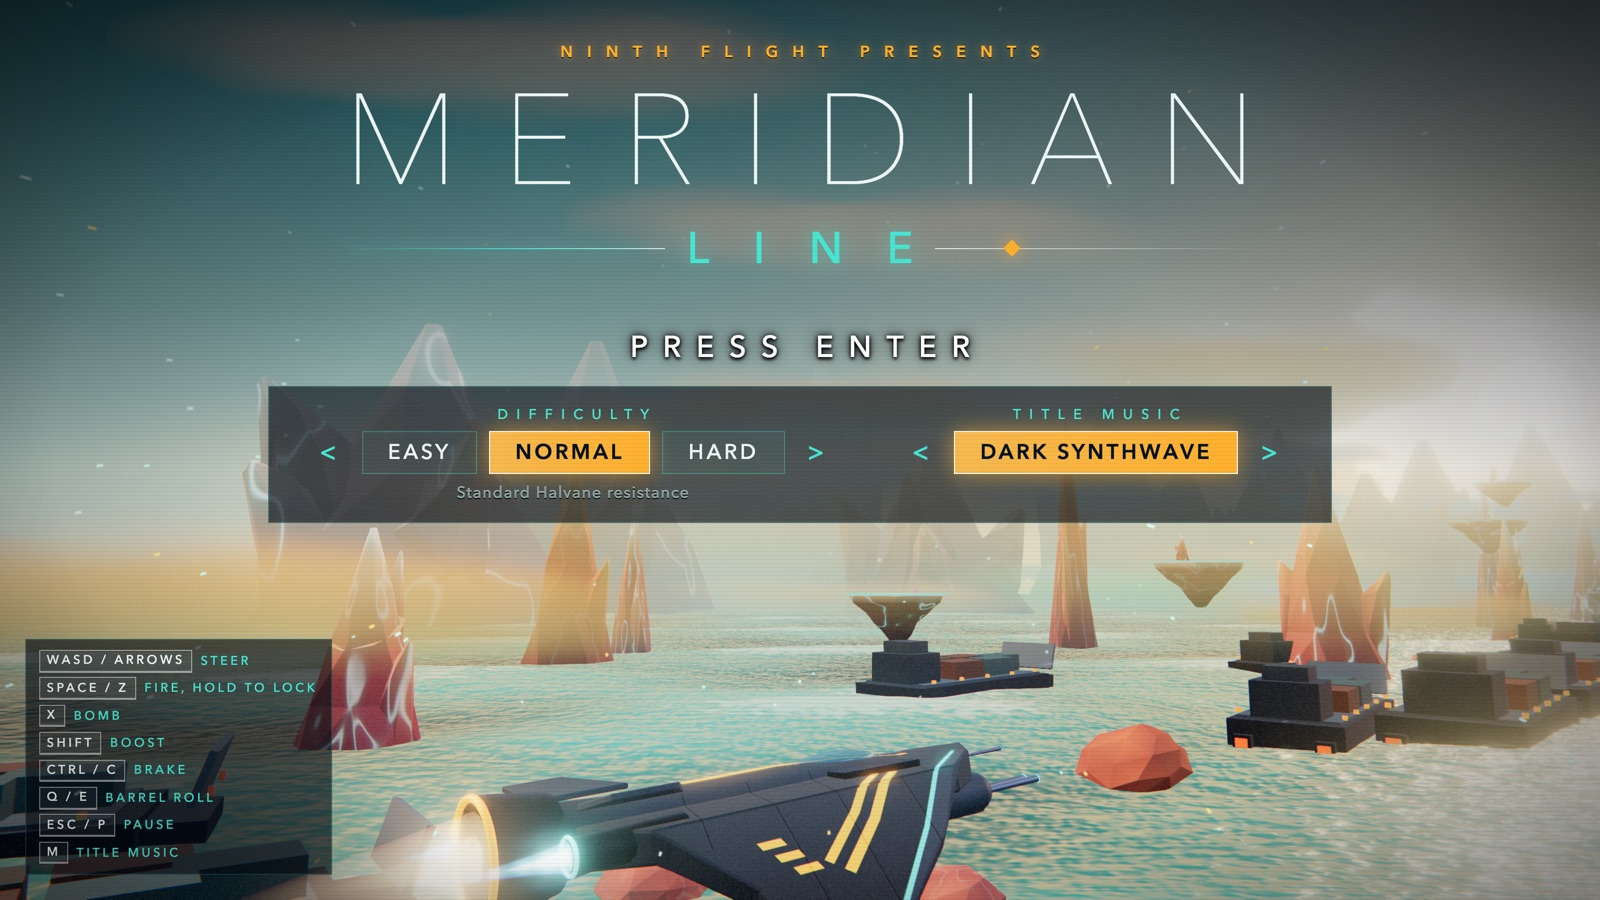
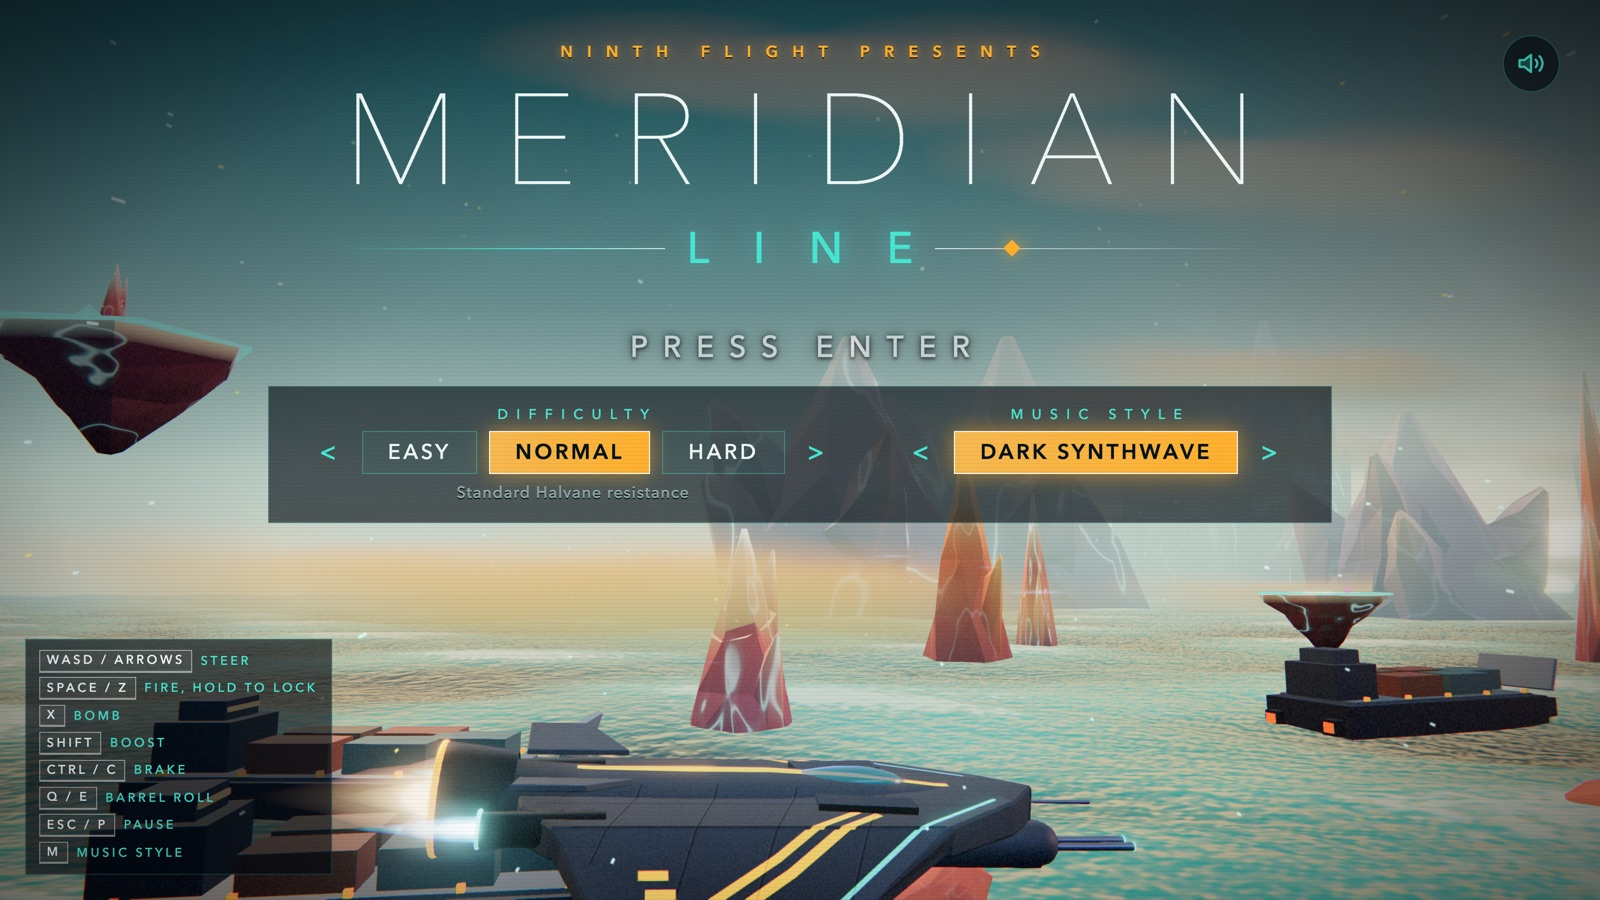
v2: polish from audits (wording, docs, screenshots, version 2.0.0)
Escort trouble wording no longer uses "on my tail" phrasing, level scripts say the
transponder wording at the source (ui.js rewrite removed), vestigial ring sound alias
removed, screen wording (A NINTH FLIGHT SORTIE, SORTIE CLEARED), process wording removed
from lab pages and comments, architecture and README updated for music styles, sound
lab and the sound gate, refreshed screenshots and link preview, version 2.0.0.

diff --git a/src/allies/allies.js b/src/allies/allies.js
@@ -1,6 +1,6 @@
 // Wingmen AI (vex, ferro, pip). Formation flying relative to the rail, target shooting with weak lasers,
 // loops and barrel rolls, damage and retreat, and the transponder-link mechanic (a contact jams an escort's link, clear it in
-// time). The trouble type rotates: tail contact, pinned at a gate, engine disabled, cut off by a barrier.
+// time). The trouble type rotates: pursuer astern, pinned at a gate, engine disabled, cut off by a barrier.
 //
 // API: allies.chaseMe(name, enemy, {time=18, kind}) starts the transponder link timer (kind: 'tail'|'gate'|'engine'|'barrier',
 // rotated automatically when omitted); allies.say(name, text) posts a comm line;
@@ -23,23 +23,23 @@ const SPEAKER = { vex: 'VEX', ferro: 'FERRO', pip: 'PIP' };
 // drone that reports status codes as a readout (lowercase status codes). Placeholders: {hp} hull percent of the
 // speaker, {shield} player shield percent, {kills} kills this level.
 const TROUBLE = ['tail', 'gate', 'engine', 'barrier'];
-const TROUBLE_WARN = { tail: 'LINK JAMMED, TAIL CONTACT', gate: 'LINK BLOCKED AT GATE', engine: 'DRIVE FAULT, LINK FADING', barrier: 'LINK CUT BY BARRIER' };
+const TROUBLE_WARN = { tail: 'LINK JAMMED, PURSUER ASTERN', gate: 'LINK BLOCKED AT GATE', engine: 'DRIVE FAULT, LINK FADING', barrier: 'LINK CUT BY BARRIER' };
 const LINES = {
   chase: {
     vex: {
-      tail: ['Lead, contact on my six, bearing 180. Transponder is jammed.', 'Wing two, tail contact. Link degrading, unable to shake.'],
+      tail: ['Lead, pursuer astern, bearing 180. Transponder is jammed.', 'Wing two, pursuer astern. Link degrading, unable to shake it.'],
       gate: ['Wing two, wedged against the gate frame. Link blocked, unable to manoeuvre.'],
       engine: ['Wing two, port drive fault. Thrust at forty percent, link fading.'],
       barrier: ['Wing two, the barrier has cut my link. No route forward.'],
     },
     ferro: {
-      tail: ['I have acquired a follower. He is very committed.', 'Something is on my tail. It has not introduced itself.'],
+      tail: ['I have acquired a follower. He is very committed.', 'Something is astern of me. It has not introduced itself.'],
       gate: ['I am wedged against a gate and my link is not enjoying it.'],
       engine: ['The engine has left the conversation. The link is following it.'],
       barrier: ['Barrier ahead, company behind, link cut. Geometrically unfortunate.'],
     },
     pip: {
-      tail: ['contact 4 on tail, link jammed, evading', 'hostile lock, link noise rising'],
+      tail: ['contact 4 astern, link jammed, evading', 'hostile lock, link noise rising'],
       gate: ['path blocked, gate 3 closed, link blocked'],
       engine: ['engine fault E2, thrust 40 percent, link fading'],
       barrier: ['barrier ahead, link cut, hull {hp} percent'],
@@ -47,7 +47,7 @@ const LINES = {
   },
   rescued: {
     vex: ['Contact eliminated. Wing two resuming station.', 'Threat cleared. Formation restored.'],
-    ferro: ['Clear. That was a lot of attention for one afternoon.', 'Tail is gone. Position restored.'],
+    ferro: ['Clear. That was a lot of attention for one afternoon.', 'Pursuer is gone. Position restored.'],
     pip: ['contact cleared. hull {hp} percent. formation restored', 'threat neutral. resuming station'],
   },
   hit: {
@@ -269,7 +269,7 @@ class Wingman {
           this.tgt.set(clamp(_q.x * 0.4 + wx * 0.5, -12, 12), clamp(_q.y + wy * 0.5 + 1, -6, 9), -19 + Math.sin(this.t * 1.7) * 2);
           k = 6; damp = 5;
         } else {
-          // tail contact: weave just ahead of the pursuer, inside the play area
+          // pursuer astern: weave just ahead of the pursuer, inside the play area
           this.tgt.set(clamp(_q.x * 0.6 + wx, -17, 17), clamp(_q.y + wy + 1, -6, 9), clamp(_q.z - 9, -46, -14));
           k = 9; damp = 6;
         }
@@ -483,7 +483,7 @@ export const allies = {
   },
 
   /** an escort is in trouble because of `enemy`; clear it within `time` seconds or the escort goes down. The trouble kind
-   *  rotates (tail contact, pinned at a gate, engine disabled, cut off by a barrier) unless opts.kind is given. */
+   *  rotates (pursuer astern, pinned at a gate, engine disabled, cut off by a barrier) unless opts.kind is given. */
   chaseMe(name, enemy, opts = {}) {
     if (!this.enabled) return;
     const n = String(name).toLowerCase();

diff --git a/src/audio/title/lab.js b/src/audio/title/lab.js
@@ -30,14 +30,14 @@ function info(track) {
     const meta = m.meta, beats = meta.beatsPerBar ?? 4;
     const barDur = meta.barDur ?? (beats * 60) / meta.bpm;
     const loop = meta.loop !== false;
-    return { delivered: true, name: meta.name || track, desc: meta.description || '', bpm: meta.bpm, bars: meta.bars, loop, secs: Math.round(meta.bars * barDur) };
+    return { available: true, name: meta.name || track, desc: meta.description || '', bpm: meta.bpm, bars: meta.bars, loop, secs: Math.round(meta.bars * barDur) };
   }
-  if (track === 'title') return { delivered: false, name: 'missing title', desc: 'This style has no title track yet, the game uses the default style title.', bpm: '?', bars: '?', loop: true, secs: 0, missing: true };
+  if (track === 'title') return { available: false, name: 'missing title', desc: 'This style has no title track, the game uses the default style title.', bpm: '?', bars: '?', loop: true, secs: 0, missing: true };
   const def = SONG_DEFS[track];
-  if (!def) return { delivered: false, name: 'nothing', desc: 'No track and no legacy song.', bpm: '?', bars: '?', loop: true, secs: 0, missing: true };
+  if (!def) return { available: false, name: 'nothing', desc: 'No track and no legacy song.', bpm: '?', bars: '?', loop: true, secs: 0, missing: true };
   let bars = 0, loop = true;
   try { const s = compileSong(track); bars = s.sections.reduce((n, x) => n + x.bars, 0); loop = s.loop !== false; } catch (e) { /* ignore */ }
-  return { delivered: false, name: `legacy: ${def.name || track}`, desc: 'Falls back to the old sequencer song.', bpm: def.bpm, bars, loop, secs: Math.round((bars * 240) / def.bpm) };
+  return { available: false, name: `legacy: ${def.name || track}`, desc: 'Falls back to the old sequencer song.', bpm: def.bpm, bars, loop, secs: Math.round((bars * 240) / def.bpm) };
 }
 
 function render() {
@@ -46,7 +46,7 @@ function render() {
     const i = info(track);
     const active = playing && playing.style === styleId && playing.track === track;
     const row = document.createElement('div'); row.className = 'row' + (active ? ' active' : ''); row.dataset.track = track;
-    const badge = i.delivered ? '<span class="badge ok">delivered</span>' : `<span class="badge legacy">${i.missing ? 'missing' : 'falls back to legacy'}</span>`;
+    const badge = i.available ? '<span class="badge ok">available</span>' : `<span class="badge legacy">${i.missing ? 'missing' : 'falls back to legacy'}</span>`;
     const kind = i.loop ? '<span class="badge">loop</span>' : '<span class="badge">one-shot</span>';
     row.innerHTML = `<div class="txt"><b>${track.toUpperCase()}: ${i.name}${badge}${kind}</b>` +
       `<small>${i.bpm} BPM, ${i.bars} bars${i.secs ? `, about ${i.secs} s` : ''}. ${i.desc}</small><small class="live" data-live></small></div>`;

diff --git a/src/world/levels/thalassa.js b/src/world/levels/thalassa.js
@@ -220,7 +220,7 @@ function script(ctx, S, W) {
 
   // a two chain slipstream lane; finishing a chain puts a tail on PIP
   S.cells(1260, 'shieldCell', 0, 0, 8, 'wave');
-  S.escort('pip', { trigger: 'cells', arm: 1250, giveUp: 1560, type: 'grunt', ahead: 160, time: 16, trouble: 'engine', note: ['LUMEN', 'Escort PIP integrity falling. Clear the contact.'] });
+  S.escort('pip', { trigger: 'cells', arm: 1250, giveUp: 1560, type: 'grunt', ahead: 160, time: 16, trouble: 'engine', note: ['LUMEN', 'Transponder link to PIP is degrading. Clear the jamming contact.'] });
   S.wave(1500, 'vee', 0, 2, { type: 'grunt', count: 5 });
   S.enemy(1560, 'gunship', -8, 3);
   S.enemy(1600, 'gunship', 8, 4);
@@ -238,7 +238,7 @@ function script(ctx, S, W) {
   S.barge(2340, -36, { h: 8, rot: 0.05 });
   S.enemy(2330, 'gunship', 0, 4);
   S.wave(2450, 'circle', 0, 0, { type: 'dart', count: 6 });
-  S.escort('ferro', { trigger: 'kills', arm: 2440, kills: 5, giveUp: 2800, type: 'grunt', x: 16, ahead: 150, time: 18, trouble: 'pinned', note: ['LUMEN', 'Escort FERRO integrity falling. Clear the contact.'] });
+  S.escort('ferro', { trigger: 'kills', arm: 2440, kills: 5, giveUp: 2800, type: 'grunt', x: 16, ahead: 150, time: 18, trouble: 'pinned', note: ['LUMEN', 'Transponder link to FERRO is degrading. Clear the jamming contact.'] });
   S.enemy(2760, 'bomber', 0, 3);
   S.cells(2850, 'shieldCell', 0, 0, 4, 'zigzag');
   S.pickup(2960, 'repair', -9, 3);
@@ -271,7 +271,7 @@ function script(ctx, S, W) {
   S.wave(4360, 'convoy', 0, 0, { type: 'gunship', count: 3 });
   S.decor(4460, 'reefSpan', 0, 0, { R: 110, yBase: -52 });
   S.enemy(4420, 'bomber', 0, 2); S.enemy(4470, 'bomber', -9, 4);
-  S.escort('vex', { trigger: 'dist', at: 4560, type: 'interceptor', ahead: 170, time: 20, trouble: 'cutoff', note: ['LUMEN', 'Escort VEX integrity falling. Clear the contact.'] });
+  S.escort('vex', { trigger: 'dist', at: 4560, type: 'interceptor', ahead: 170, time: 20, trouble: 'cutoff', note: ['LUMEN', 'Transponder link to VEX is degrading. Clear the jamming contact.'] });
   S.cells(4640, 'shieldCell', 0, 0, 4, 'spiral');
   S.wave(4700, 'pincer', 0, 0, { type: 'grunt', count: 6 });
   // a forest of spires: alternating stacks

diff --git a/src/world/levels/foundry.js b/src/world/levels/foundry.js
@@ -248,7 +248,7 @@ function script(ctx, S, W) {
 
   // PIP is pinned against a beam gate
   S.pickup(2360, 'bomb', -8, 2);
-  S.escort('pip', { trigger: 'dist', at: 2440, type: 'grunt', x: 12, ahead: 170, time: 18, trouble: 'pinned', note: ['LUMEN', 'Escort PIP integrity falling. Clear the contact.'] });
+  S.escort('pip', { trigger: 'dist', at: 2440, type: 'grunt', x: 12, ahead: 170, time: 18, trouble: 'pinned', note: ['LUMEN', 'Transponder link to PIP is degrading. Clear the jamming contact.'] });
   S.wave(2560, 'pincer', 0, 0, { type: 'gunship', count: 4 });
 
   // rotors and beam gates
@@ -261,7 +261,7 @@ function script(ctx, S, W) {
   S.wave(3120, 'vee', 0, 2, { type: 'interceptor', count: 6 });
   for (let i = 0; i < 5; i++) S.enemy(3290 + i * 10, 'mine', -14 + i * 7, (i % 2) * 5 - 2);
   S.cells(3340, 'shieldCell', 0, 0, 4, 'spiral');
-  S.escort('ferro', { trigger: 'cells', arm: 3330, giveUp: 3620, type: 'interceptor', x: -15, ahead: 170, time: 18, trouble: 'cutoff', note: ['LUMEN', 'Escort FERRO integrity falling. Clear the contact.'] });
+  S.escort('ferro', { trigger: 'cells', arm: 3330, giveUp: 3620, type: 'interceptor', x: -15, ahead: 170, time: 18, trouble: 'cutoff', note: ['LUMEN', 'Transponder link to FERRO is degrading. Clear the jamming contact.'] });
   S.enemy(3420, 'carrier', 0, 8, { ahead: 380 });
   S.enemy(3560, 'swarmer', 0, 0, { count: 12 });
   S.wave(3650, 'convoy', 0, 0, { type: 'gunship', count: 4 });

diff --git a/src/world/levels/cinder.js b/src/world/levels/cinder.js
@@ -228,11 +228,11 @@ function script(ctx, S, W) {
   field(2260, 3550, { step: 48, small: 1.4, med: 0.55, big: 0.26 });
   S.hint(2300, 'FLIP: Q or E deflects incoming fire', 5);
   S.wave(2450, 'circle', 0, 0, { type: 'dart', count: 7 });
-  S.escort('ferro', { trigger: 'roll', arm: 2400, giveUp: 2800, type: 'interceptor', x: 15, ahead: 170, time: 18, trouble: 'tail', note: ['LUMEN', 'Escort FERRO integrity falling. Clear the contact.'] });
+  S.escort('ferro', { trigger: 'roll', arm: 2400, giveUp: 2800, type: 'interceptor', x: 15, ahead: 170, time: 18, trouble: 'tail', note: ['LUMEN', 'Transponder link to FERRO is degrading. Clear the jamming contact.'] });
   S.enemy(2900, 'gunship', -8, 4); S.enemy(2940, 'gunship', 9, 2);
   S.cells(3050, 'shieldCell', 0, 0, 4, 'zigzag');
   S.wave(3150, 'pincer', 0, 1, { type: 'grunt', count: 6 });
-  S.escort('vex', { trigger: 'kills', arm: 3140, kills: 6, giveUp: 3420, type: 'grunt', x: -15, ahead: 170, time: 18, trouble: 'cutoff', note: ['LUMEN', 'Escort VEX integrity falling. Clear the contact.'] });
+  S.escort('vex', { trigger: 'kills', arm: 3140, kills: 6, giveUp: 3420, type: 'grunt', x: -15, ahead: 170, time: 18, trouble: 'cutoff', note: ['LUMEN', 'Transponder link to VEX is degrading. Clear the jamming contact.'] });
   S.wave(3400, 'line', 0, 0, { type: 'interceptor', count: 3 });
 
   // ---- quiet stretch: a hulk in the lane and a capacitor tucked behind it

diff --git a/src/audio/sfx2/lab.js b/src/audio/sfx2/lab.js
@@ -1,4 +1,4 @@
-// Sound lab page script (owned by the weapons sound agent). sfx-lab.html lists every sound effect from
+// Sound lab page script sfx-lab.html lists every sound effect from
 // sfxGroups() and plays them through the same chain as the game (gain, compressor, limiter, master).
 import { SFX, SFX_META } from '../sfx.js';
 import { sfxGroups, createSfxChain, playSfx, rapidInterval, LEGACY_WEAPONS } from './registry.js';
@@ -158,7 +158,7 @@ function build() {
   list.innerHTML = '';
   for (const g of sfxGroups()) {
     const h = document.createElement('h2'); h.textContent = `${g.label} (${g.names.filter((n) => !L3_NAMES.has(n)).length})`; list.append(h);
-    if (!g.names.length) { const p = document.createElement('p'); p.className = 'sub'; p.textContent = 'Nothing delivered yet.'; list.append(p); continue; }
+    if (!g.names.length) { const p = document.createElement('p'); p.className = 'sub'; p.textContent = 'No sounds in this group.'; list.append(p); continue; }
     for (const name of g.names) {
       if (L3_NAMES.has(name)) continue;                       // shown in the level 3 candidates section
       const isNew = g.id !== 'other';

diff --git a/src/ui/screens.js b/src/ui/screens.js
@@ -270,7 +270,7 @@ export class Screens {
     h('div', 'title-grad', null, d.el);
     h('div', 'title-glow', null, d.el);
     const inner = h('div', 'title-inner', null, d.el);
-    h('div', 'kicker', 'NINTH FLIGHT PRESENTS', inner);
+    h('div', 'kicker', 'A NINTH FLIGHT SORTIE', inner);
     const logo = h('div', 'logo', null, inner);
     logo.setAttribute('aria-label', 'MERIDIAN LINE');
     const l1 = h('div', 'logo-1', null, logo);
@@ -418,7 +418,7 @@ export class Screens {
     const d = this.screen('levelcomplete');
     h('div', 'dim', null, d.el);
     const p = h('div', 'panel wide', null, d.el);
-    h('div', 'panel-title big cyan', 'MISSION COMPLETE', p);
+    h('div', 'panel-title big cyan', 'SORTIE CLEARED', p);
     this.lcName = h('div', 'panel-sub', '', p);
     const body = h('div', 'lc-body', null, p);
     this.lcStats = this.statBlock(body, ['SCORE', 'KILLS']);

diff --git a/music-lab.html b/music-lab.html
@@ -25,7 +25,7 @@
 </head>
 <body>
   <h1>MUSIC LAB</h1>
-  <p class="sub">Audition every track of every style. A track a style has not delivered yet falls back to the old song and is marked legacy. "Use this style in the game" saves your choice for this browser (localStorage), then open the game.</p>
+  <p class="sub">Audition every track of every style. A track a style does not define falls back to the default song and is marked as a fallback. "Use this style in the game" saves your choice for this browser (localStorage), then open the game.</p>
   <div class="tools">
     <label>Style <select id="style"></select></label>
     <button id="use" class="pri">Use this style in the game</button>

diff --git a/src/audio/sfx.js b/src/audio/sfx.js
@@ -164,7 +164,6 @@ const LEGACY_SFX = {
     return 0.7;
   },
 };
-LEGACY_SFX.ring = LEGACY_SFX.cell; // alias for older callers
 
 // Sounds in ./sfx2/ (weapons.js, impacts.js) override the legacy recipes of the same name.
 export const SFX = { ...LEGACY_SFX, ...WEAPON_SFX, ...IMPACT_SFX };
@@ -184,7 +183,6 @@ const LEGACY_META = {
   alarm: { gap: 0.4, max: 1, prio: 4 },
   pickup: { gap: 0.06, max: 3, prio: 3 },
   cell: { gap: 0.06, max: 4, prio: 3 },
-  ring: { gap: 0.06, max: 4, prio: 3 }, // alias of cell, kept for older callers
   boost: { gap: 0.3, max: 1, prio: 3 },
   brake: { gap: 0.3, max: 1, prio: 3 },
   roll: { gap: 0.15, max: 2, prio: 2 },

diff --git a/src/audio/music.js b/src/audio/music.js
@@ -151,7 +151,7 @@ export class Sequencer {
 
 /**
  * Owns the active player and the ones fading out. Every play(name) resolves through the selected style
- * (STYLES[style].tracks[name], played by VariantPlayer). A track the style has not delivered falls back to the legacy
+ * (STYLES[style].tracks[name], played by VariantPlayer). A track the style does not define falls back to the legacy
  * Sequencer song in songs.js; the title always resolves to a style track (the default style's title as last resort).
  */
 export class MusicEngine {

diff --git a/src/ui/ui.js b/src/ui/ui.js
@@ -131,8 +131,6 @@ export const ui = {
   comm(a, text, duration) {
     if (typeof a === 'string') a = { speaker: a, text, duration };
     a = a ? { ...a } : {};
-    // level scripts word the escort trouble note in the old escort-integrity terms: present it as the transponder link
-    if (typeof a.text === 'string') a.text = a.text.replace(/^Escort (\w+) integrity falling\. Clear the contact\./, 'Transponder link to $1 is degrading. Clear the jamming contact.');
     this.commBox?.push(a);
   },
 

diff --git a/src/audio/styles/registry.js b/src/audio/styles/registry.js
@@ -43,7 +43,7 @@ export function styleList(styles = STYLES) {
   return Object.keys(styles).map((id) => ({ id, name: styles[id].name }));
 }
 
-/** The track module of a style, or null when that style has not delivered it. */
+/** The track module of a style, or null when that style has no track of that name. */
 export function styleTrack(styleId, name, styles = STYLES) {
   return styles[styleId]?.tracks?.[name] || null;
 }
